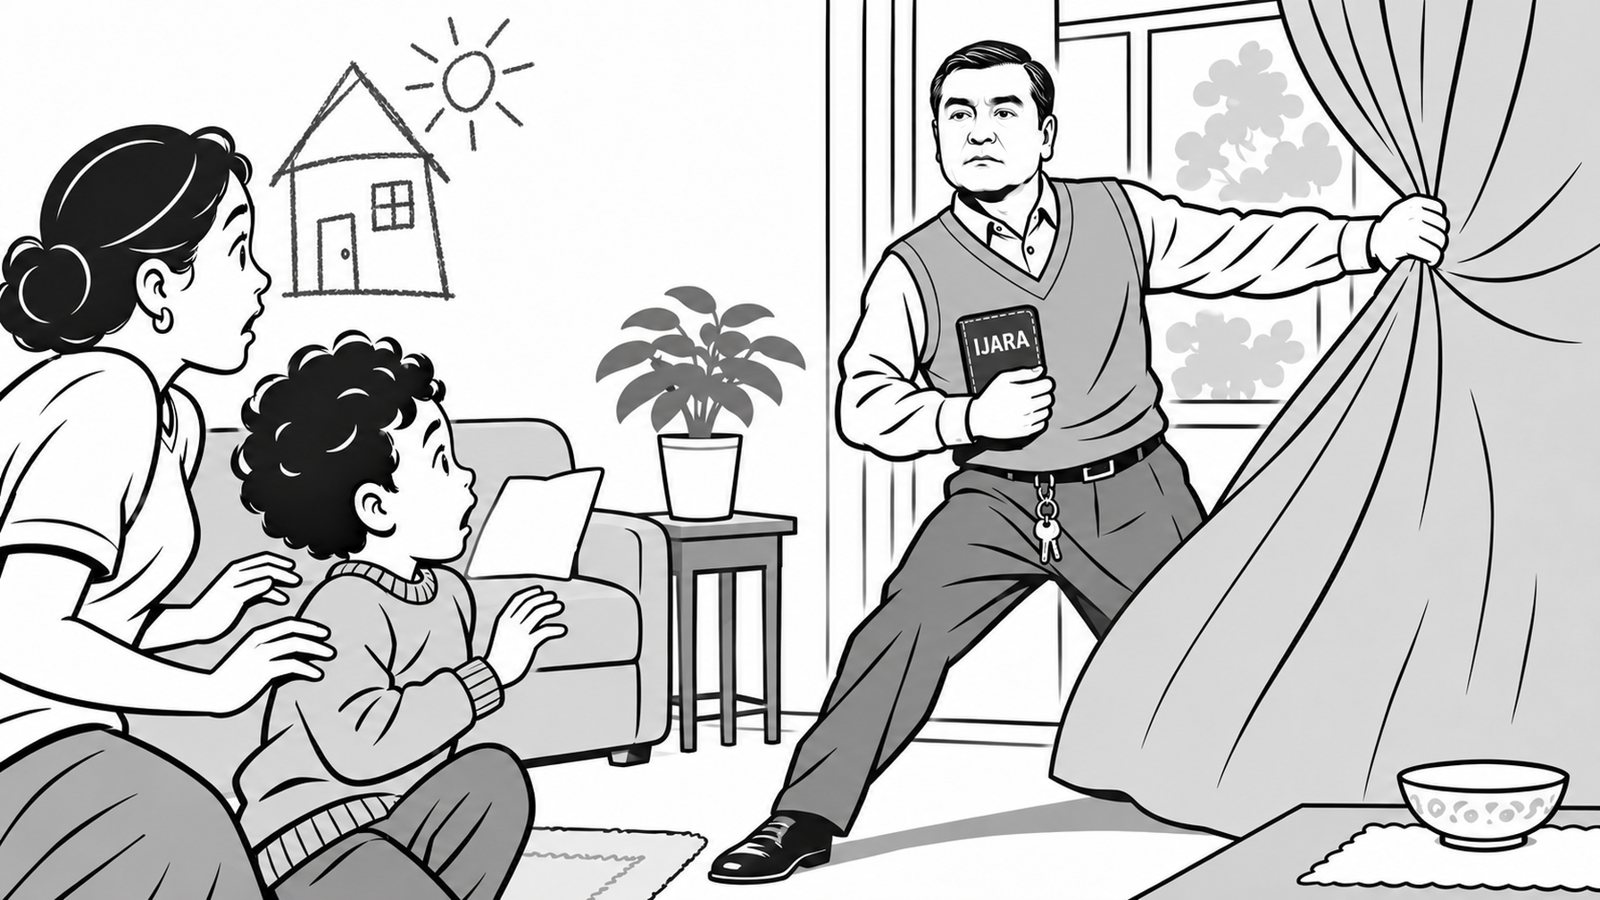
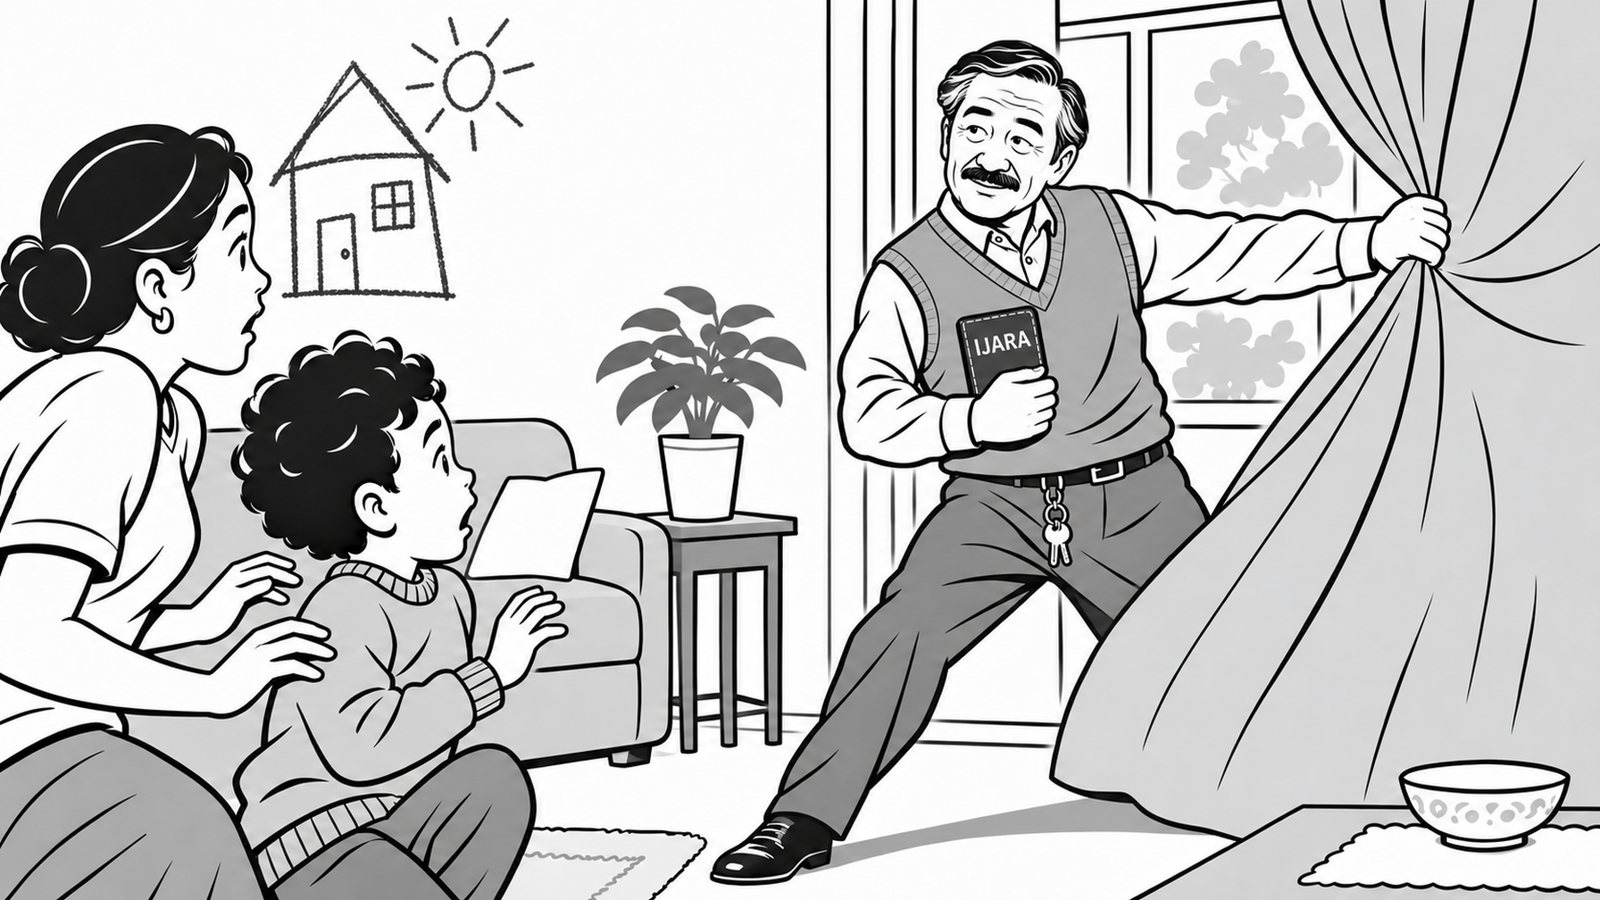
FCB-Agrobank: regen round 3 (sofa emergence, curtain landlord, rain without hand)
Claude-Session: https://claude.ai/code/session_01XP5vXjE9khJrmSZP6JwDdh

diff --git a/FCB-Agrobank/index.html b/FCB-Agrobank/index.html
@@ -135,11 +135,11 @@ requestAnimationFrame(f)}f();
 
 </section>
 <section id="r1-s4b" data-transition="fade" style="background:#FBFBF8;color:#12211A;font-family:'Agrofont', Verdana, sans-serif;display:flex;flex-direction:column;padding:96px">
-<p style="position:absolute;left:96px;top:96px;width:1200px;font-family:'Agrofont Bold', Verdana, sans-serif;font-size:24px;letter-spacing:2px;text-transform:uppercase;color:#00803F">Ролик 1 · Xira · Сцена 4</p><h2 style="position:absolute;left:96px;top:136px;width:1500px;font-family:'Agrofont Expanded', Verdana, sans-serif;font-size:52px;font-weight:700;line-height:1.1;color:#12211A;text-align:left">Из дивана</h2><img data-build-in="fade" src="assets/r1s_12_xira_sofa_hands_simple.jpg" alt="Из щели между сиденьями лезут руки Хиры, подушка подпрыгивает" style="position:absolute;left:96px;top:248px;width:852px;height:479px;object-fit:cover;border-radius:14px;border:1px solid #DDE3DF"><img data-build-in="fade" src="assets/r1s_13_xira_from_sofa_simple.jpg" alt="Хира вылез из дивана и тянет ладонь, подушка летит" style="position:absolute;left:972px;top:248px;width:852px;height:479px;object-fit:cover;border-radius:14px;border:1px solid #DDE3DF"><p data-build-in="fade" style="position:absolute;left:96px;top:776px;width:760px;font-family:'Agrofont', Verdana, sans-serif;font-size:28px;line-height:1.45;color:#12211A;background:#FFF09A;box-shadow:0 0 0 10px #FFF09A;border-radius:2px">Агентство выбрало вариант, где Хира появляется прямо из дивана. Рядом с героем лежит подушка: когда Хира вылезает, она отлетает в сторону. Другие появления сейчас прорабатываем.</p><div style="position:absolute;left:1264px;top:72px;width:560px;background:#FFF09A;border-left:6px solid #D9B400;border-radius:12px;padding:16px 22px;box-shadow:0 12px 32px rgba(18,33,26,0.10)"><p style="font-family:'Agrofont Bold', Verdana, sans-serif;font-size:24px;line-height:1.3;color:#7A5600">Правка · на подтверждении</p><p style="font-family:'Agrofont', Verdana, sans-serif;font-size:24px;line-height:1.4;color:#3A2C00">Новые кадры: Хира по пояс вылезает из дивана, подушка отлетает. Кадр справа перегенерируется.</p></div>
+<p style="position:absolute;left:96px;top:96px;width:1200px;font-family:'Agrofont Bold', Verdana, sans-serif;font-size:24px;letter-spacing:2px;text-transform:uppercase;color:#00803F">Ролик 1 · Xira · Сцена 4</p><h2 style="position:absolute;left:96px;top:136px;width:1500px;font-family:'Agrofont Expanded', Verdana, sans-serif;font-size:52px;font-weight:700;line-height:1.1;color:#12211A;text-align:left">Из дивана</h2><img data-build-in="fade" src="assets/r1s_12_xira_sofa_hands_simple.jpg" alt="Из щели между сиденьями лезут руки Хиры, подушка подпрыгивает" style="position:absolute;left:96px;top:248px;width:852px;height:479px;object-fit:cover;border-radius:14px;border:1px solid #DDE3DF"><img data-build-in="fade" src="assets/r1s_13_xira_from_sofa_simple.jpg" alt="Хира по пояс вылез из дивана и тянет ладонь, подушка летит" style="position:absolute;left:972px;top:248px;width:852px;height:479px;object-fit:cover;border-radius:14px;border:1px solid #DDE3DF"><p data-build-in="fade" style="position:absolute;left:96px;top:776px;width:760px;font-family:'Agrofont', Verdana, sans-serif;font-size:28px;line-height:1.45;color:#12211A;background:#FFF09A;box-shadow:0 0 0 10px #FFF09A;border-radius:2px">Агентство выбрало вариант, где Хира появляется прямо из дивана. Рядом с героем лежит подушка: когда Хира вылезает, она отлетает в сторону. Другие появления сейчас прорабатываем.</p><div style="position:absolute;left:1264px;top:72px;width:560px;background:#FFF09A;border-left:6px solid #D9B400;border-radius:12px;padding:16px 22px;box-shadow:0 12px 32px rgba(18,33,26,0.10)"><p style="font-family:'Agrofont Bold', Verdana, sans-serif;font-size:24px;line-height:1.3;color:#7A5600">Правка · на подтверждении</p><p style="font-family:'Agrofont', Verdana, sans-serif;font-size:24px;line-height:1.4;color:#3A2C00">Новые кадры: Хира по пояс вылезает из дивана, подушка отлетает.</p></div>
 
 </section>
 <section id="r1-s4c" data-transition="fade" style="background:#FBFBF8;color:#12211A;font-family:'Agrofont', Verdana, sans-serif;display:flex;flex-direction:column;padding:96px">
-<p style="position:absolute;left:96px;top:96px;width:1200px;font-family:'Agrofont Bold', Verdana, sans-serif;font-size:24px;letter-spacing:2px;text-transform:uppercase;color:#00803F">Ролик 1 · Xira · Сцена 4</p><h2 style="position:absolute;left:96px;top:136px;width:1500px;font-family:'Agrofont Expanded', Verdana, sans-serif;font-size:52px;font-weight:700;line-height:1.1;color:#12211A;text-align:left">Восьмёрка</h2><img data-build-in="fade" src="assets/r1s_13c_xira_reverse_on_hero_simple.jpg" alt="Восьмёрка на героя: ладонь Хиры в кадре, подушка на полу" style="position:absolute;left:96px;top:248px;width:852px;height:479px;object-fit:cover;border-radius:14px;border:1px solid #DDE3DF"><video data-build-in="fade" src="assets/ref_sofa.mp4" poster="assets/ref_sofa_still.jpg" autoplay muted loop playsinline preload="auto" aria-label="Реф: человек вылезает из дивана между подушками" style="position:absolute;left:972px;top:248px;width:852px;height:479px;object-fit:cover;border-radius:14px"></video><p data-build-in="fade" style="position:absolute;left:96px;top:776px;width:760px;font-family:'Agrofont', Verdana, sans-serif;font-size:28px;line-height:1.45;color:#12211A;background:#FFF09A;box-shadow:0 0 0 10px #FFF09A;border-radius:2px">Восьмёрка на героя: ладонь Хиры прямо в кадре, подушка уже на полу.</p><p data-build-in="fade" style="position:absolute;left:972px;top:776px;width:852px;font-family:'Agrofont Bold', Verdana, sans-serif;font-size:28px;line-height:1.45;color:#12211A"><span style="color:#00803F">Реф</span><br>Apartments.com · Out of the Woodwork</p><div style="position:absolute;left:1264px;top:72px;width:560px;background:#FFF09A;border-left:6px solid #D9B400;border-radius:12px;padding:16px 22px;box-shadow:0 12px 32px rgba(18,33,26,0.10)"><p style="font-family:'Agrofont Bold', Verdana, sans-serif;font-size:24px;line-height:1.3;color:#7A5600">Правка · на подтверждении</p><p style="font-family:'Agrofont', Verdana, sans-serif;font-size:24px;line-height:1.4;color:#3A2C00">Новый слайд: восьмёрка на героя. Кадр перегенерируется: Хира в том же диване.</p></div>
+<p style="position:absolute;left:96px;top:96px;width:1200px;font-family:'Agrofont Bold', Verdana, sans-serif;font-size:24px;letter-spacing:2px;text-transform:uppercase;color:#00803F">Ролик 1 · Xira · Сцена 4</p><h2 style="position:absolute;left:96px;top:136px;width:1500px;font-family:'Agrofont Expanded', Verdana, sans-serif;font-size:52px;font-weight:700;line-height:1.1;color:#12211A;text-align:left">Восьмёрка</h2><img data-build-in="fade" src="assets/r1s_13c_xira_reverse_on_hero_simple.jpg" alt="Восьмёрка на героя: ладонь Хиры в кадре, подушка на полу" style="position:absolute;left:96px;top:248px;width:852px;height:479px;object-fit:cover;border-radius:14px;border:1px solid #DDE3DF"><video data-build-in="fade" src="assets/ref_sofa.mp4" poster="assets/ref_sofa_still.jpg" autoplay muted loop playsinline preload="auto" aria-label="Реф: человек вылезает из дивана между подушками" style="position:absolute;left:972px;top:248px;width:852px;height:479px;object-fit:cover;border-radius:14px"></video><p data-build-in="fade" style="position:absolute;left:96px;top:776px;width:760px;font-family:'Agrofont', Verdana, sans-serif;font-size:28px;line-height:1.45;color:#12211A;background:#FFF09A;box-shadow:0 0 0 10px #FFF09A;border-radius:2px">Восьмёрка на героя: ладонь Хиры прямо в кадре, подушка уже на полу.</p><p data-build-in="fade" style="position:absolute;left:972px;top:776px;width:852px;font-family:'Agrofont Bold', Verdana, sans-serif;font-size:28px;line-height:1.45;color:#12211A"><span style="color:#00803F">Реф</span><br>Apartments.com · Out of the Woodwork</p><div style="position:absolute;left:1264px;top:72px;width:560px;background:#FFF09A;border-left:6px solid #D9B400;border-radius:12px;padding:16px 22px;box-shadow:0 12px 32px rgba(18,33,26,0.10)"><p style="font-family:'Agrofont Bold', Verdana, sans-serif;font-size:24px;line-height:1.3;color:#7A5600">Правка · на подтверждении</p><p style="font-family:'Agrofont', Verdana, sans-serif;font-size:24px;line-height:1.4;color:#3A2C00">Новый слайд: восьмёрка на героя, Хира в том же диване.</p></div>
 
 </section>
 <section id="r1-s5" data-transition="fade" style="background:#FBFBF8;color:#12211A;font-family:'Agrofont', Verdana, sans-serif;display:flex;flex-direction:column;padding:96px">
@@ -151,7 +151,7 @@ requestAnimationFrame(f)}f();
 
 </section>
 <section id="r1-s7" data-transition="fade" style="background:#FBFBF8;color:#12211A;font-family:'Agrofont', Verdana, sans-serif;display:flex;flex-direction:column;padding:96px">
-<p style="position:absolute;left:96px;top:96px;width:1200px;font-family:'Agrofont Bold', Verdana, sans-serif;font-size:24px;letter-spacing:2px;text-transform:uppercase;color:#00803F">Ролик 1 · Xira · Сцена 7</p><h2 style="position:absolute;left:96px;top:136px;width:1500px;font-family:'Agrofont Expanded', Verdana, sans-serif;font-size:52px;font-weight:700;line-height:1.1;color:#12211A;text-align:left">За окном</h2><img data-build-in="fade" src="assets/r1s_17_hero_turns_to_window_simple.jpg" alt="Герой поворачивается к окну" style="position:absolute;left:96px;top:248px;width:852px;height:479px;object-fit:cover;border-radius:14px;border:1px solid #DDE3DF"><img data-build-in="fade" src="assets/r1s_18_xira_rain_window_simple.jpg" alt="Мокрый Хира под дождём за стеклом" style="position:absolute;left:972px;top:248px;width:852px;height:479px;object-fit:cover;border-radius:14px;border:1px solid #DDE3DF"><p data-build-in="fade" style="position:absolute;left:96px;top:776px;width:760px;font-family:'Agrofont', Verdana, sans-serif;font-size:28px;line-height:1.45;color:#12211A">В момент подписания договора герой случайно смотрит в окно и замечает за стеклом грустного Хиру под дождём.</p><div style="position:absolute;left:1264px;top:72px;width:560px;background:#FFF09A;border-left:6px solid #D9B400;border-radius:12px;padding:16px 22px;box-shadow:0 12px 32px rgba(18,33,26,0.10)"><p style="font-family:'Agrofont Bold', Verdana, sans-serif;font-size:24px;line-height:1.3;color:#7A5600">Правка · на подтверждении</p><p style="font-family:'Agrofont', Verdana, sans-serif;font-size:24px;line-height:1.4;color:#3A2C00">Кадр обновлён: на папке Boshqa bank.</p></div>
+<p style="position:absolute;left:96px;top:96px;width:1200px;font-family:'Agrofont Bold', Verdana, sans-serif;font-size:24px;letter-spacing:2px;text-transform:uppercase;color:#00803F">Ролик 1 · Xira · Сцена 7</p><h2 style="position:absolute;left:96px;top:136px;width:1500px;font-family:'Agrofont Expanded', Verdana, sans-serif;font-size:52px;font-weight:700;line-height:1.1;color:#12211A;text-align:left">За окном</h2><img data-build-in="fade" src="assets/r1s_17_hero_turns_to_window_simple.jpg" alt="Герой поворачивается к окну" style="position:absolute;left:96px;top:248px;width:852px;height:479px;object-fit:cover;border-radius:14px;border:1px solid #DDE3DF"><img data-build-in="fade" src="assets/r1s_18_xira_rain_window_simple.jpg" alt="Мокрый Хира под дождём за стеклом" style="position:absolute;left:972px;top:248px;width:852px;height:479px;object-fit:cover;border-radius:14px;border:1px solid #DDE3DF"><p data-build-in="fade" style="position:absolute;left:96px;top:776px;width:760px;font-family:'Agrofont', Verdana, sans-serif;font-size:28px;line-height:1.45;color:#12211A">В момент подписания договора герой случайно смотрит в окно и замечает за стеклом грустного Хиру под дождём.</p><div style="position:absolute;left:1264px;top:72px;width:560px;background:#FFF09A;border-left:6px solid #D9B400;border-radius:12px;padding:16px 22px;box-shadow:0 12px 32px rgba(18,33,26,0.10)"><p style="font-family:'Agrofont Bold', Verdana, sans-serif;font-size:24px;line-height:1.3;color:#7A5600">Правка · на подтверждении</p><p style="font-family:'Agrofont', Verdana, sans-serif;font-size:24px;line-height:1.4;color:#3A2C00">Кадр обновлён: на папке Boshqa bank, Хира под дождём без протянутой руки.</p></div>
 
 </section>
 <section id="r1-s7b" data-transition="fade" style="background:#FBFBF8;color:#12211A;font-family:'Agrofont', Verdana, sans-serif;display:flex;flex-direction:column;padding:96px">
@@ -179,7 +179,7 @@ requestAnimationFrame(f)}f();
 
 </section>
 <section id="r2-s1b" data-transition="fade" style="background:#FBFBF8;color:#12211A;font-family:'Agrofont', Verdana, sans-serif;display:flex;flex-direction:column;padding:96px">
-<p style="position:absolute;left:96px;top:96px;width:1200px;font-family:'Agrofont Bold', Verdana, sans-serif;font-size:24px;letter-spacing:2px;text-transform:uppercase;color:#00803F">Ролик 2 · Ипотека за 1 минуту · Сцена 1</p><h2 style="position:absolute;left:96px;top:136px;width:1500px;font-family:'Agrofont Expanded', Verdana, sans-serif;font-size:52px;font-weight:700;line-height:1.1;color:#12211A;text-align:left">Из-за шторы</h2><img data-build-in="fade" src="assets/r2s_002b_landlord_curtain_simple.jpg" alt="Хозяин выходит из-за шторы с книжкой IJARA" style="position:absolute;left:704px;top:248px;width:1120px;height:630px;object-fit:cover;border-radius:14px;border:1px solid #DDE3DF"><p data-build-in="fade" style="position:absolute;left:96px;top:280px;width:560px;font-family:'Agrofont', Verdana, sans-serif;font-size:28px;line-height:1.45;color:#12211A;background:#FFF09A;box-shadow:0 0 0 10px #FFF09A;border-radius:2px">Из-за шторы сам выходит хозяин и пишет в свою книжку.</p><div style="position:absolute;left:1264px;top:72px;width:560px;background:#FFF09A;border-left:6px solid #D9B400;border-radius:12px;padding:16px 22px;box-shadow:0 12px 32px rgba(18,33,26,0.10)"><p style="font-family:'Agrofont Bold', Verdana, sans-serif;font-size:24px;line-height:1.3;color:#7A5600">Правка · на подтверждении</p><p style="font-family:'Agrofont', Verdana, sans-serif;font-size:24px;line-height:1.4;color:#3A2C00">Новое появление: хозяин сам выходит из-за шторы. Кадр перегенерируется.</p></div>
+<p style="position:absolute;left:96px;top:96px;width:1200px;font-family:'Agrofont Bold', Verdana, sans-serif;font-size:24px;letter-spacing:2px;text-transform:uppercase;color:#00803F">Ролик 2 · Ипотека за 1 минуту · Сцена 1</p><h2 style="position:absolute;left:96px;top:136px;width:1500px;font-family:'Agrofont Expanded', Verdana, sans-serif;font-size:52px;font-weight:700;line-height:1.1;color:#12211A;text-align:left">Из-за шторы</h2><img data-build-in="fade" src="assets/r2s_002b_landlord_curtain_simple.jpg" alt="Хозяин выходит из-за шторы с книжкой IJARA" style="position:absolute;left:704px;top:248px;width:1120px;height:630px;object-fit:cover;border-radius:14px;border:1px solid #DDE3DF"><p data-build-in="fade" style="position:absolute;left:96px;top:280px;width:560px;font-family:'Agrofont', Verdana, sans-serif;font-size:28px;line-height:1.45;color:#12211A;background:#FFF09A;box-shadow:0 0 0 10px #FFF09A;border-radius:2px">Из-за шторы сам выходит хозяин и пишет в свою книжку.</p><div style="position:absolute;left:1264px;top:72px;width:560px;background:#FFF09A;border-left:6px solid #D9B400;border-radius:12px;padding:16px 22px;box-shadow:0 12px 32px rgba(18,33,26,0.10)"><p style="font-family:'Agrofont Bold', Verdana, sans-serif;font-size:24px;line-height:1.3;color:#7A5600">Правка · на подтверждении</p><p style="font-family:'Agrofont', Verdana, sans-serif;font-size:24px;line-height:1.4;color:#3A2C00">Новое появление: хозяин сам выходит из-за шторы.</p></div>
 
 </section>
 <section id="r2-s2" data-transition="fade" style="background:#FBFBF8;color:#12211A;font-family:'Agrofont', Verdana, sans-serif;display:flex;flex-direction:column;padding:96px">
